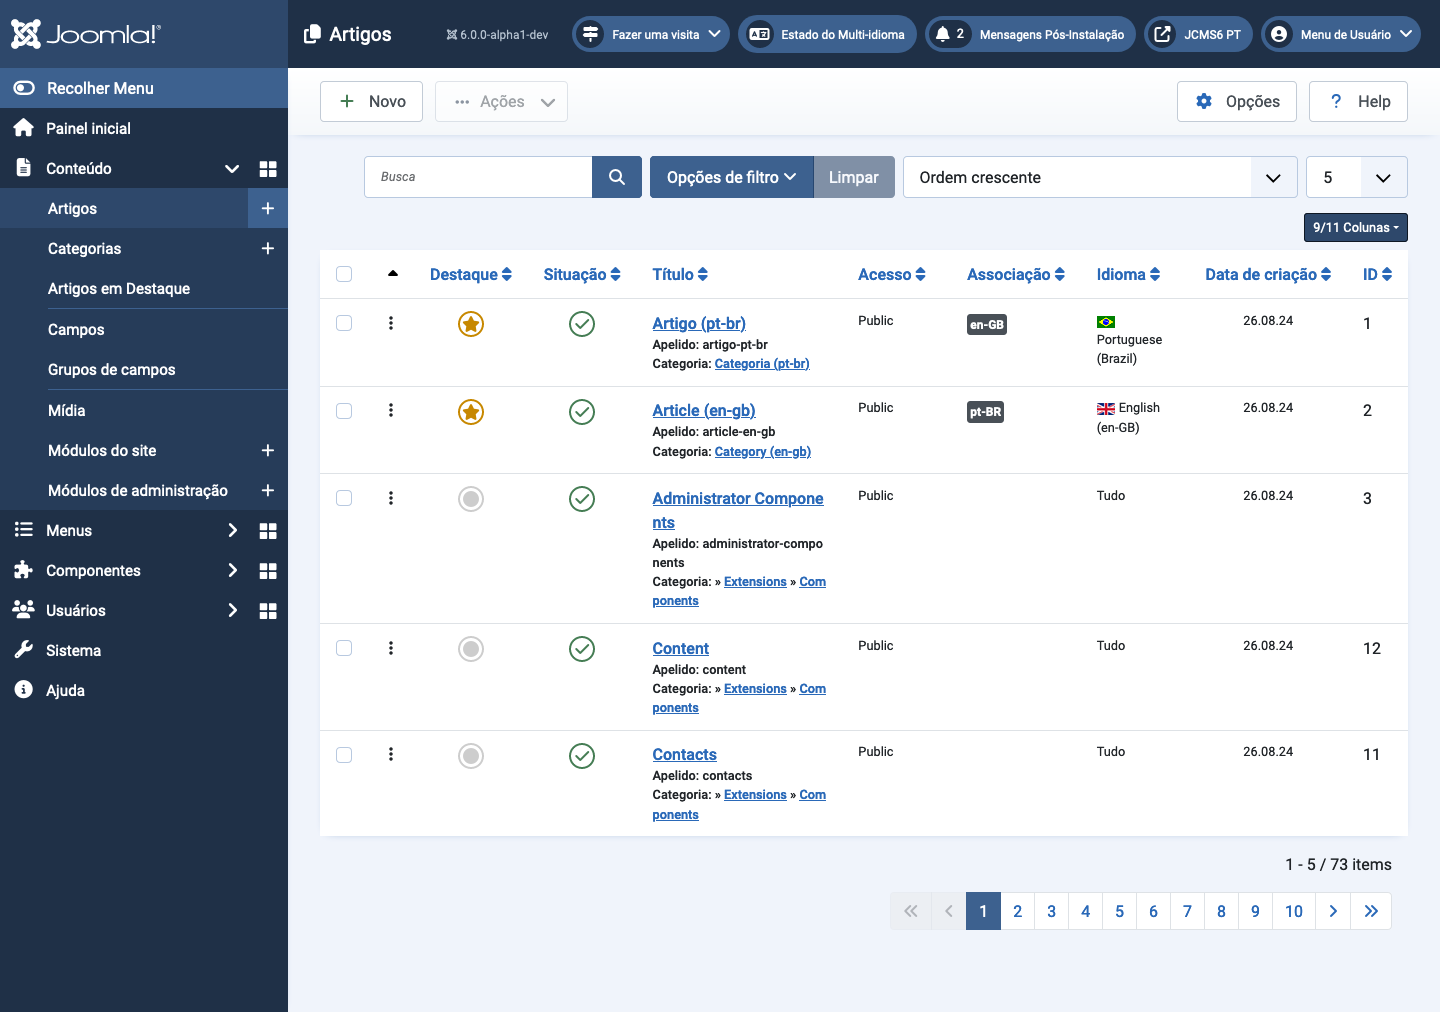
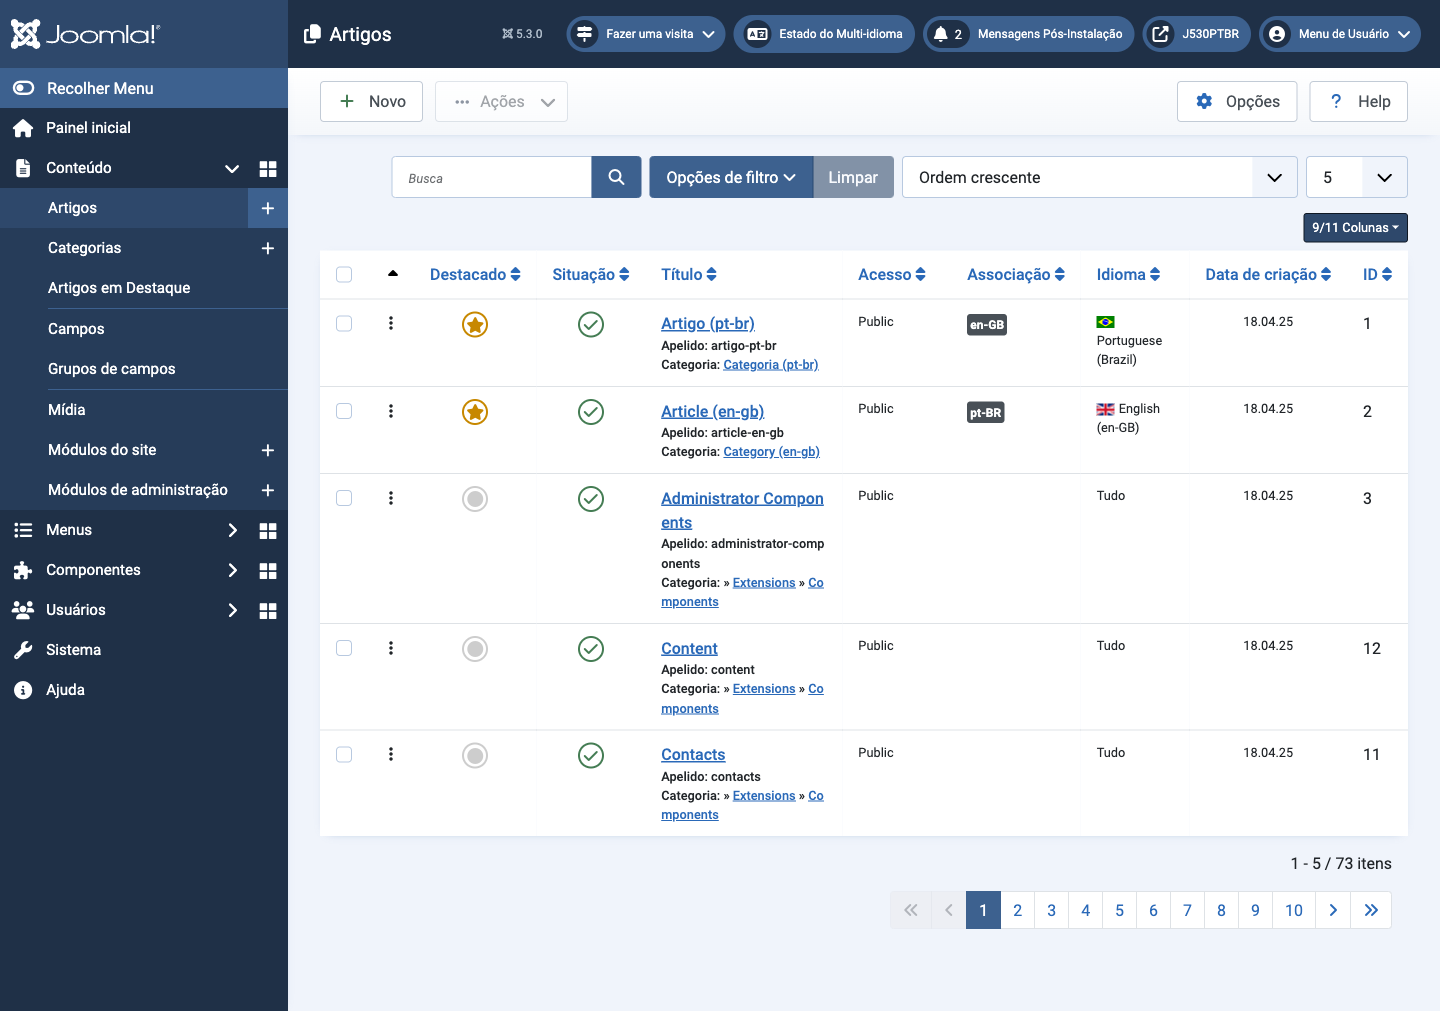
Updated proxy links

diff --git a/articles/plugins/plugins-name-of-plugin.md b/articles/plugins/plugins-name-of-plugin.md
@@ -16,7 +16,7 @@ grupo com links para documentação separada:
 * [Grupo de Autenticação.](jdocmanual?article=help/plugins/plugin-group-authentication) (3 Plugins)
 * [Grupo de Comportamento.](jdocmanual?article=help/plugins/plugin-group-behavior) (3 Plugins)
 * [Grupo de Conteúdo.](jdocmanual?article=help/plugins/plugin-group-content) (10 Plugins)
-* [Grupo de Editores.](jdocmanual?article=help/plugins/plugin-group-editors) (3 Plugins)
+* [Grupo de Editores.](jdocmanual?article=help/plugins/plugin-group-editors-txt) (3 Plugins)
 * [Grupo de Botões Editor Xtd.](jdocmanual?article=help/plugins/plugin-group-editors-xtd) (8 Plugins)
 * [Grupo de Extensões.](jdocmanual?article=help/plugins/plugin-group-extensions) (3 Plugins)
 * [Grupo de Campos.](jdocmanual?article=help/plugins/plugin-group-fields) (16 Plugins)
